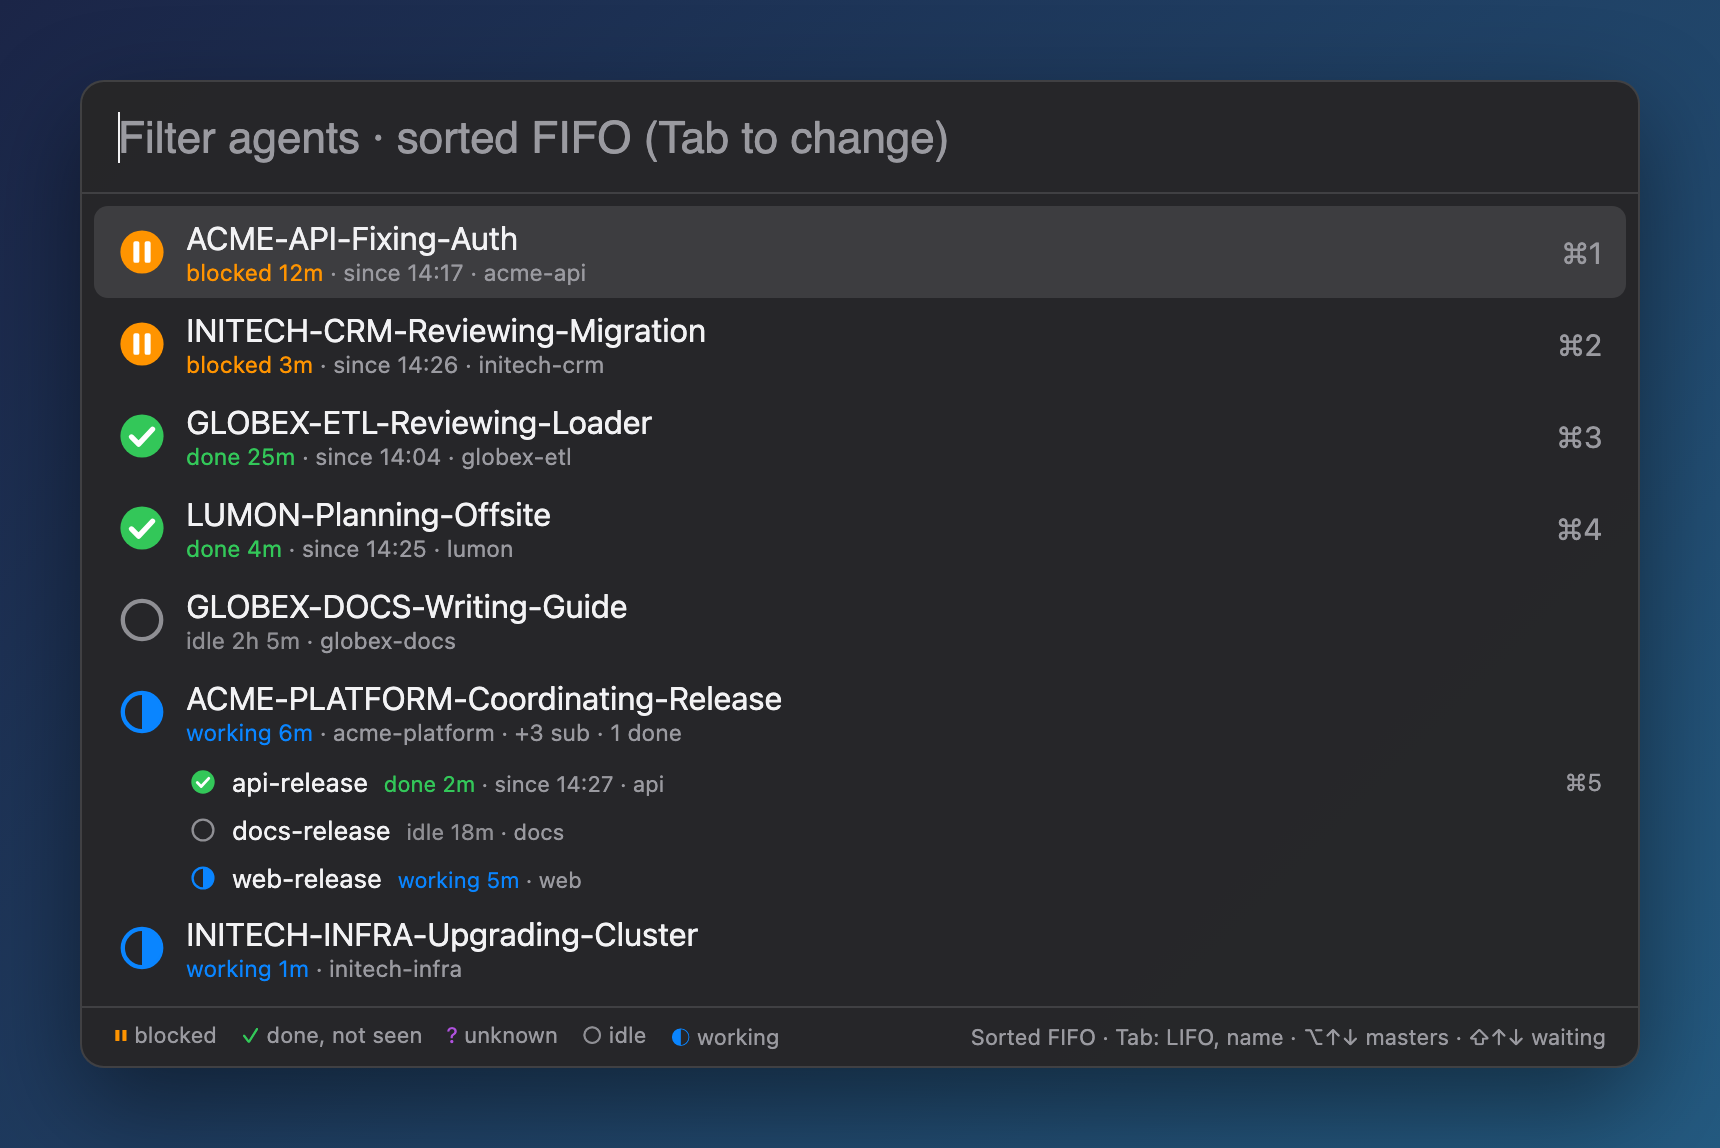
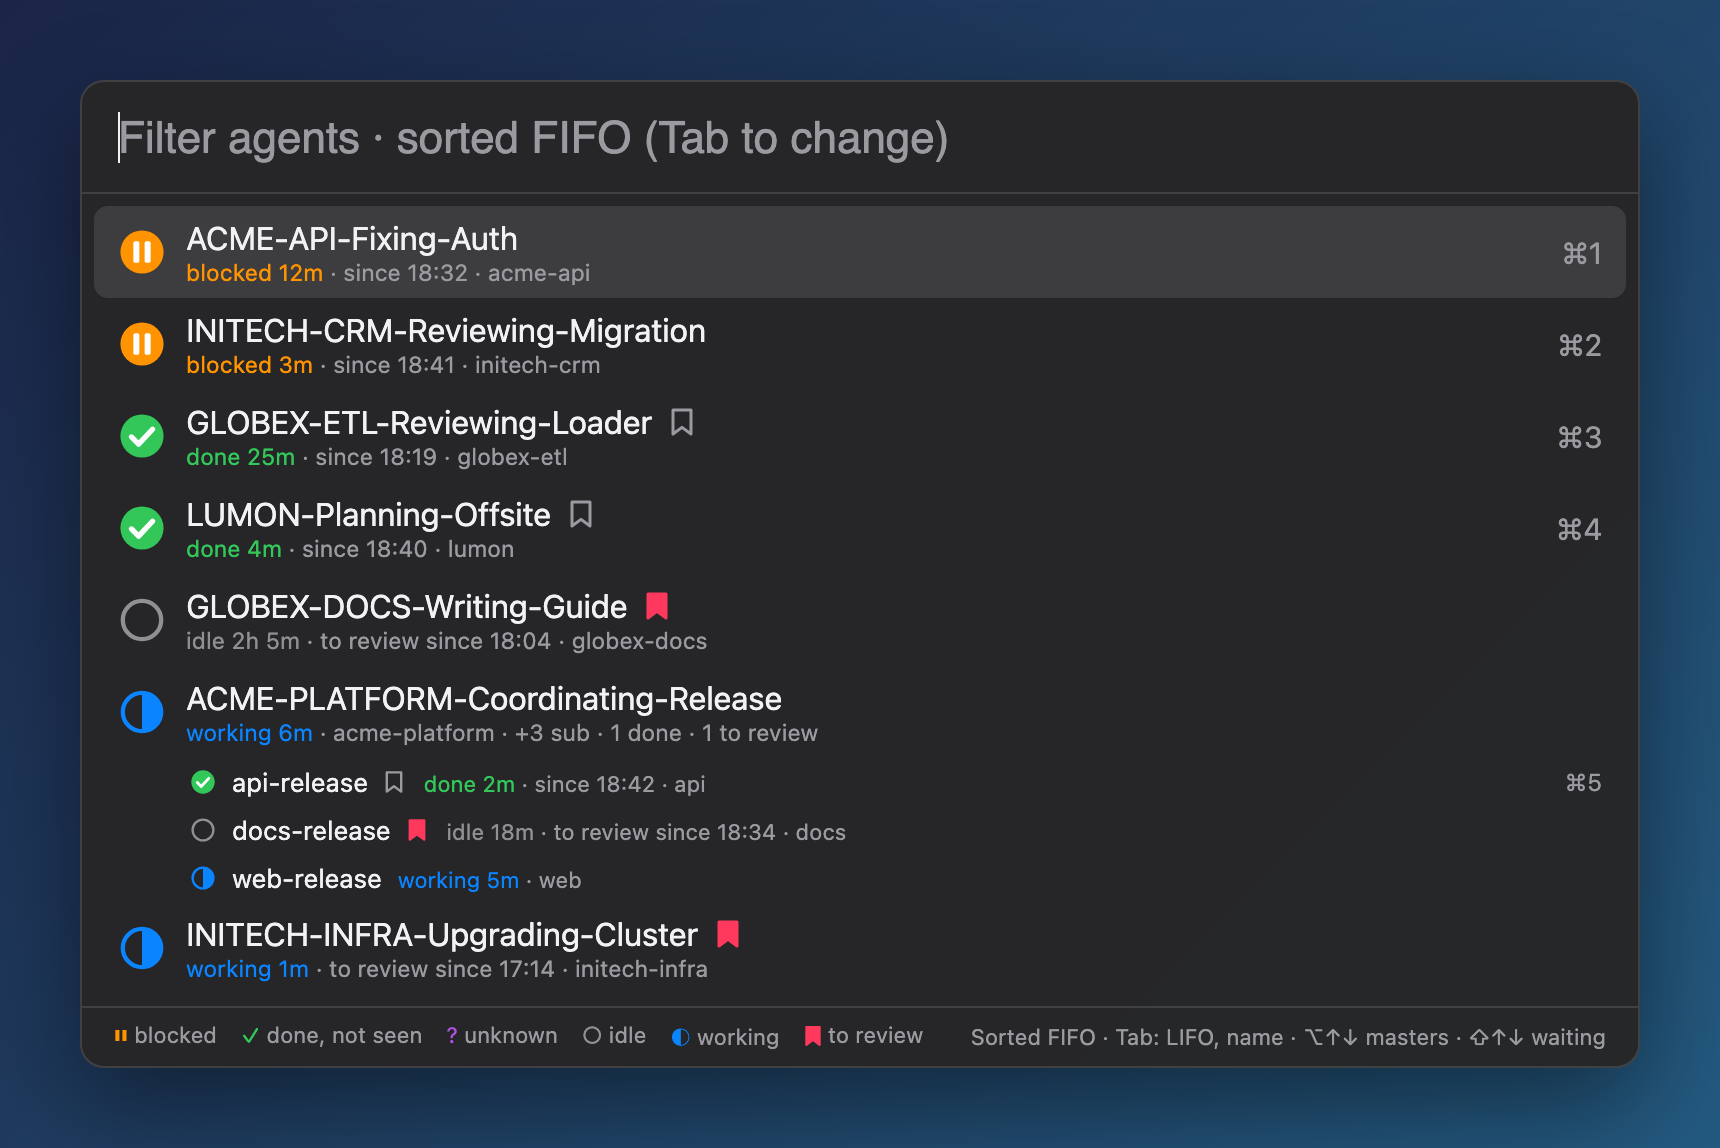
docs(herdr-jump): picker screenshot with the to-review bookmarks

diff --git a/site/pages/herdr-jump.html b/site/pages/herdr-jump.html
@@ -16,8 +16,8 @@
     </div>
     <figure>
       <img class="shot" src="img/herdr-jump/picker.png" width="1720" height="1148"
-        alt="The agents picker: two blocked agents with orange pause icons on top, each with the shortcut ⌘1 or ⌘2, then two finished agents with green check marks, ⌘3 and ⌘4, then an idle agent; then a working agent coordinating a release, with its three sub-sessions on compact indented lines under it, the finished one with ⌘5; then a working agent; a line at the bottom explains the icons, the sort in use and the arrow keys">
-      <figcaption>The picker (⌃⌥⌘A, from any app): blocked first, then done, each oldest first, each a ⌘ key away; sub-sessions under their master. Tab sorts newest first or by name.</figcaption>
+        alt="The agents picker: two blocked agents with orange pause icons on top, each with the shortcut ⌘1 or ⌘2, then two finished agents with green check marks, ⌘3 and ⌘4, each with an outlined bookmark after its title; then an idle agent with a pink bookmark, to review since 18:04; then a working agent coordinating a release, with its three sub-sessions on compact indented lines under it: the finished one with ⌘5, an idle one with a pink bookmark, a working one; then a working agent that keeps its pink bookmark; a line at the bottom explains the icons, the bookmark, the sort in use and the arrow keys">
+      <figcaption>The picker (⌃⌥⌘A, from any app): blocked first, then done, each oldest first, each a ⌘ key away; then the agents marked to review (pink bookmark); sub-sessions under their master. Tab sorts newest first or by name.</figcaption>
     </figure>
   </header>
 </div>

diff --git a/herdr-jump/README.md b/herdr-jump/README.md
@@ -11,10 +11,11 @@ Run five agents at once and they queue up for you: a permission here, a finished
 HerdrJump lines them up first come, first served, tells you how long each one has waited, and
 takes you to its pane with Enter, whatever app you are in.
 
-<img src="docs/picker.png" alt="The agents picker: two blocked agents with orange pause icons on top, each with the shortcut ⌘1 or ⌘2, then two finished agents with green check marks, ⌘3 and ⌘4, then an idle agent; then a working agent coordinating a release, with its three sub-sessions on compact indented lines under it, the finished one with ⌘5; then a working agent; a line at the bottom explains the icons, the sort in use and the arrow keys" width="800">
+<img src="docs/picker.png" alt="The agents picker: two blocked agents with orange pause icons on top, each with the shortcut ⌘1 or ⌘2, then two finished agents with green check marks, ⌘3 and ⌘4, each with an outlined bookmark after its title; then an idle agent with a pink bookmark, to review since 18:04; then a working agent coordinating a release, with its three sub-sessions on compact indented lines under it: the finished one with ⌘5, an idle one with a pink bookmark, a working one; then a working agent that keeps its pink bookmark; a line at the bottom explains the icons, the bookmark, the sort in use and the arrow keys" width="800">
 
 The picker (`⌃⌥⌘A`, from any app), with fictional agents: blocked first, then done, each oldest
-first, each with its ⌘ shortcut; then the others, sub-sessions under their master. Tab sorts newest
+first, each with its ⌘ shortcut; then the agents marked to review (pink bookmark), then the
+others, sub-sessions under their master. The outlined bookmark marks an agent; Tab sorts newest
 first or by name.
 
 ## Standalone
